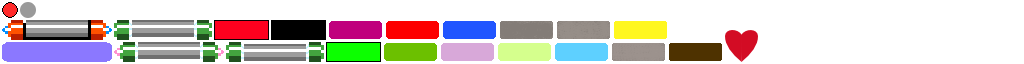
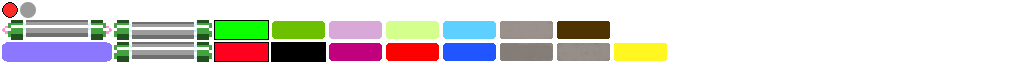
Change lives gui

Changed region(s): [[0.0, 0.3125, 0.6562, 0.625], [0.1875, 0.4688, 0.75, 0.9688], [0.0938, 0.6562, 0.1562, 0.9688]]

diff --git a/core/src/com/jashlaviu/jashanoid/Gui.java b/core/src/com/jashlaviu/jashanoid/Gui.java
@@ -10,13 +10,13 @@ public class Gui {
 	
 	public Gui(JashanoidScreen gameScreen) {
 		this.gameScreen = gameScreen;
-		livesRegion = TextureLoader.hearth;
+		livesRegion = TextureLoader.getPlatform();
 		
 	}
 	
 	public void render(SpriteBatch batch){
 		for(int i = 0; i < gameScreen.getLives(); i++){
-			batch.draw(livesRegion, Bounds.GAME_X_RIGHT + 100, 200 + i * 40);
+			batch.draw(livesRegion, Bounds.GAME_X_RIGHT + 45, 300 - i * 30);
 		}
 	}
 
